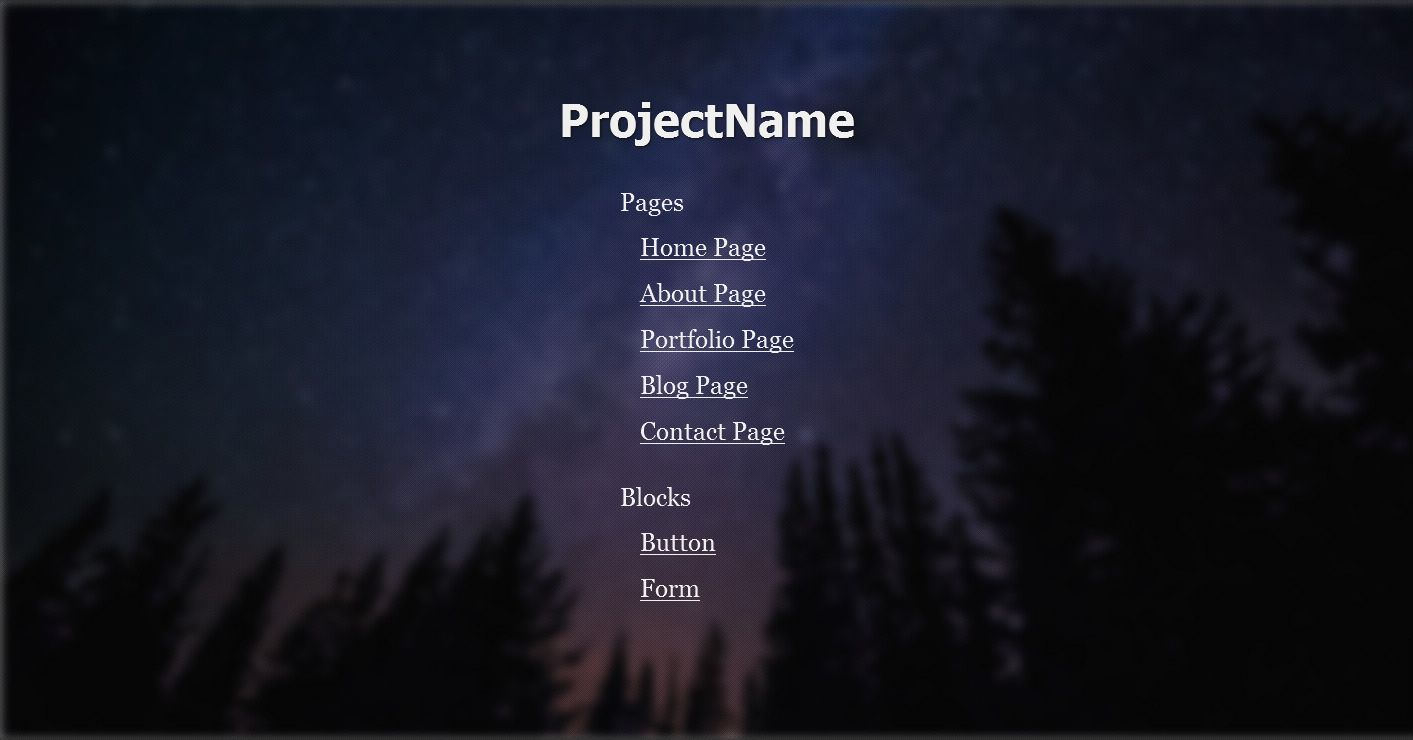
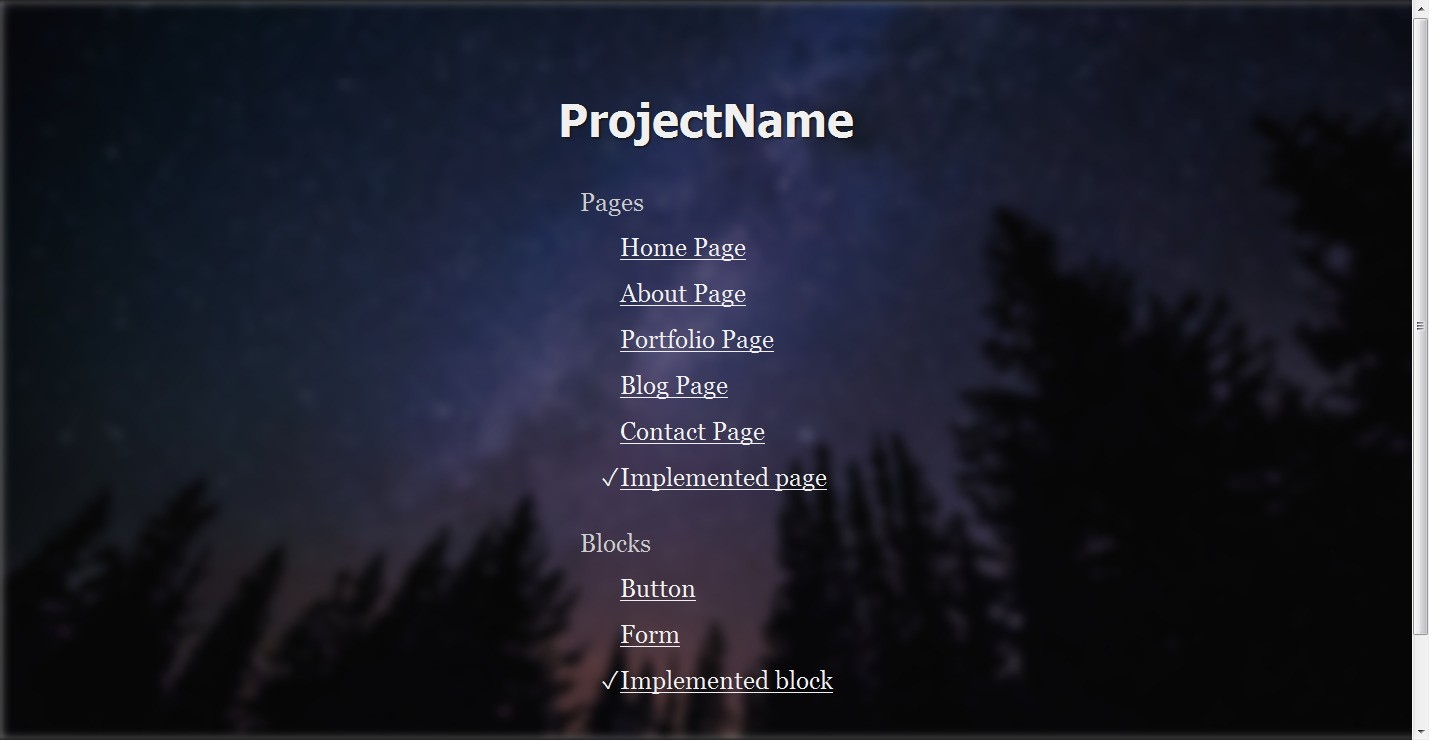
checked state for the list items added to visualize dev process

diff --git a/index.html b/index.html
@@ -9,7 +9,6 @@
 	<body>
 		<style>
 			a,abbr,acronym,address,applet,article,aside,audio,b,big,blockquote,body,canvas,caption,center,cite,code,dd,del,details,dfn,div,dl,dt,em,embed,fieldset,figcaption,figure,footer,form,h1,h2,h3,h4,h5,h6,header,hgroup,html,i,iframe,img,input,ins,kbd,label,legend,li,mark,main,menu,nav,object,ol,output,p,pre,q,ruby,s,samp,section,small,span,strike,strong,sub,summary,sup,table,tbody,td,tfoot,th,thead,time,tr,tt,u,ul,var,video{-webkit-box-sizing:border-box;-moz-box-sizing:border-box;box-sizing:border-box;margin:0;padding:0;border:0}article,aside,details,figcaption,figure,footer,header,hgroup,main,menu,nav,section{display:block}nav ol,nav ul{list-style:none}blockquote,q{quotes:none}blockquote:after,blockquote:before,q:after,q:before{content:"";content:none}table{border-spacing:0;border-collapse:collapse}button,input[type=submit]{cursor:pointer}
-
 			*::selection{
 				background: #f0f0f0;
 				color: #0f0f0f;
@@ -70,7 +69,7 @@
 				background-color: rgba(15, 15, 15, 0.45);
 				filter: progid:DXImageTransform.Microsoft.gradient(startColorstr=#4C000000,endColorstr=#4C000000);
 				zoom: 1;
[2 lines of base64/hex data omitted]
 				background-repeat: repeat;
 				background-attachment: fixed;
 				box-shadow: inset 0 3px 3px -2px #0f0f0f, inset 0 -3px 3px -2px #0f0f0f;
@@ -110,18 +109,23 @@
 				list-style: none;
 				color: #f0f0f0;
 				text-align: center;
-
 			}
 			.project__item{
+				position: relative;
 				font-family: Georgia, Times, "Times New Roman", serif;
 				font-size: 25px;
 				line-height: 1;
 				text-align: left;
 				color: #f0f0f0;
 			}
+			.project__item.is-checked:before{
+				content: "\2713";
+				position: absolute;
+				right: 100%;
+			}
 			.project__item ul,
 			.project__item ol{
-				margin-left: 20px;
+				margin-left: 40px;
 				margin-bottom: 20px;
 				list-style: none;
 			}
@@ -138,6 +142,7 @@
 				display: block;
 				cursor: default;
 				border: none;
+				color: #ccc;
 			}
 			.project__link:hover{
 				border-color: transparent;
@@ -154,7 +159,7 @@
 						<a class="project__link project__link_empty">Pages</a> 
 						<ul class="project__list">
 							<li class="project__item">
-								<a href="home.html" class="project__link">Home Page</a>
+								<a href="#" class="project__link">Home Page</a>
 							</li>
 							<li class="project__item">
 								<a href="#" class="project__link">About Page</a>
@@ -168,16 +173,22 @@
 							<li class="project__item">
 								<a href="#" class="project__link">Contact Page</a>
 							</li>
+							<li class="project__item is-checked">
+								<a href="#" class="project__link">Implemented page</a>
+							</li>
 						</ul>
 					</li>
 					 <li class="project__item">
 						<a class="project__link project__link_empty">Blocks</a> 
 						<ul class="project__list">
 							<li class="project__item">
-								<a href="button.html" class="project__link">Button</a>
+								<a href="#" class="project__link">Button</a>
 							</li>
 							<li class="project__item">
-								<a href="form.html" class="project__link">Form</a>
+								<a href="#" class="project__link">Form</a>
+							</li>
+							<li class="project__item is-checked">
+								<a href="#" class="project__link">Implemented block</a>
 							</li>
 						</ul>
 					</li>
